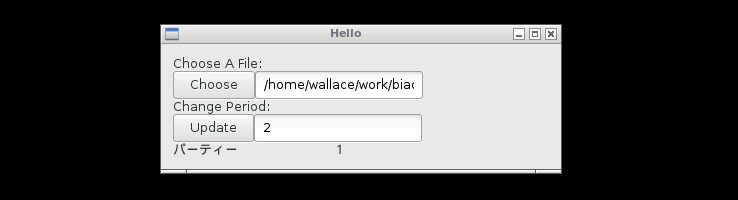
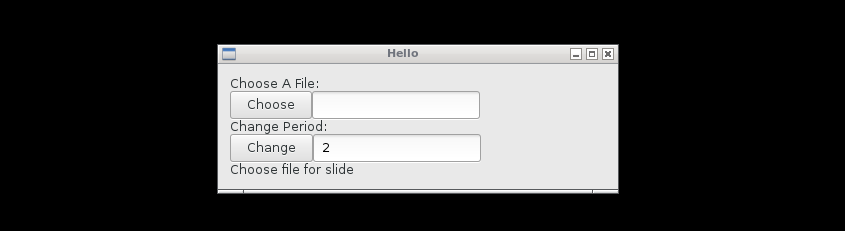
one button content changed, and example images updated

Changed region(s): [[0.2182, 0.12, 0.7791, 0.87]]

diff --git a/lineslide.go b/lineslide.go
@@ -36,7 +36,7 @@ func windowFunc() {
 	box.Append(fbox, false)
 
 	pbox := ui.NewHorizontalBox()
-	update := ui.NewButton("Update")
+	update := ui.NewButton("Change")
 	pbox.Append(update, false)
 	period := ui.NewEntry()
 	pbox.Append(period, false)
